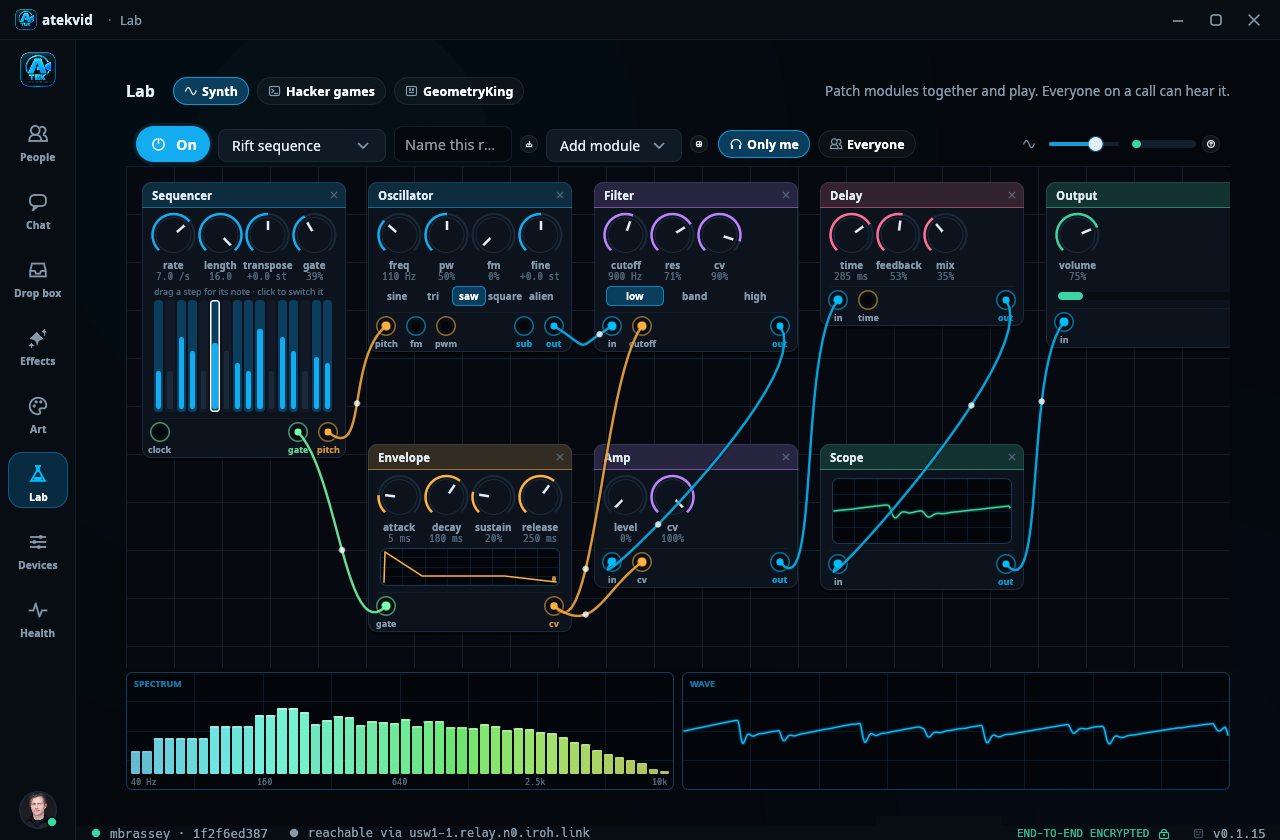
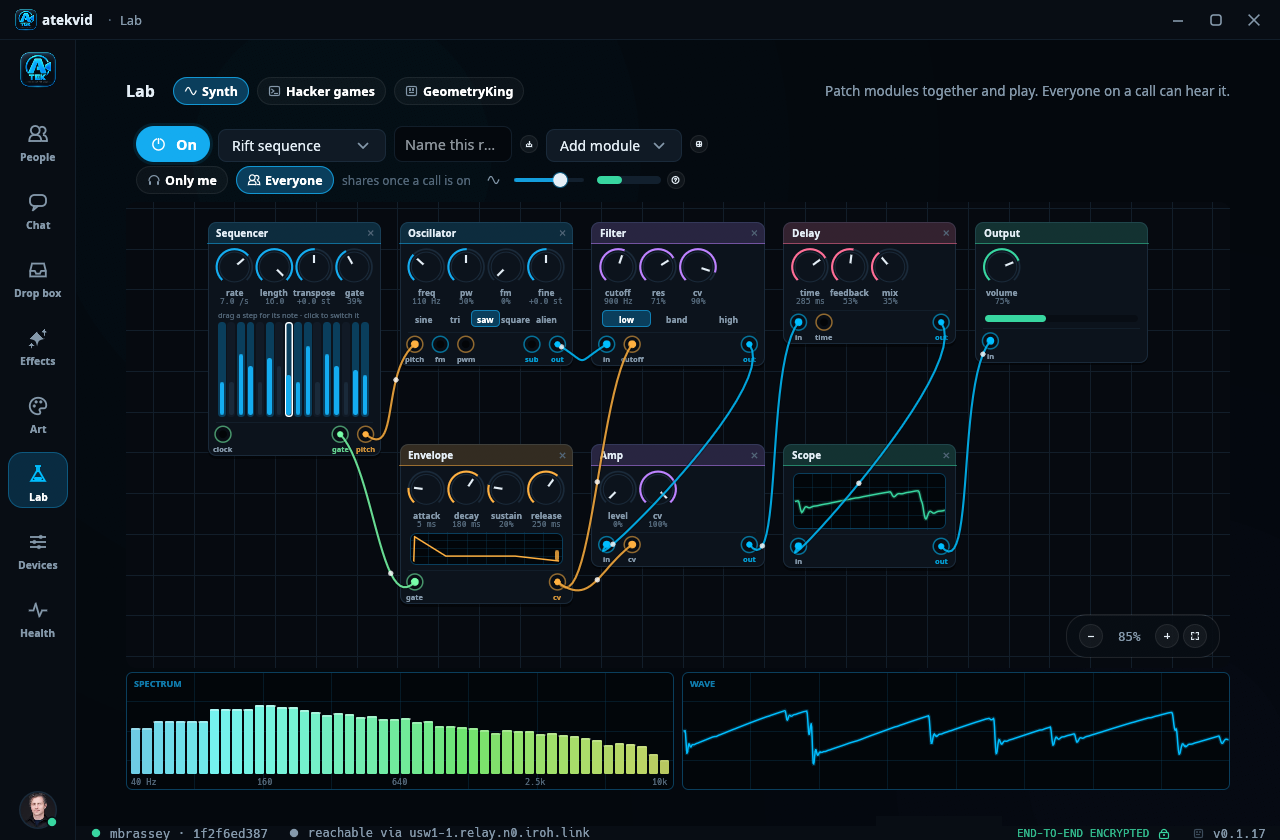
The synth rack zooms

diff --git a/README.md b/README.md
@@ -115,6 +115,8 @@ by hand.
   chorus, mixer, scope, output) patched with cables between colour-coded
   sockets, with knobs to turn, six starting racks to begin from, a spectrum
   analyser and an oscilloscope along the bottom, and racks kept by name.
+  The rack zooms in and out (Ctrl and the wheel, a pinch, or the buttons in
+  its corner) and fits every module on screen with a double-click.
   *Only me* plays it on your speakers; *Everyone* mixes it into what the call
   hears. The hacker games are a field terminal: Keycrack, Cipher and Packet
   run, each with a best score.
@@ -161,9 +163,10 @@ fullscreen · **Ctrl+Q** quit. On the art board: **B** draw · **V** select ·
 **S** shapes · **T** text · **K** stickers · **H** pan · **E** eraser ·
 **Ctrl+Z / Ctrl+Y** undo and redo · **Ctrl+D** duplicate · **Del** delete ·
 **+ − 0** zoom and fit · **Space** or the middle button drags the view ·
-**Ctrl+wheel** zooms. In the Lab, with the synth on: **A** to **;** play
-notes, **Z** and **X** change octave; in the terminal, digits, arrows,
-**Enter** and **Esc** do what they say.
+**Ctrl+wheel** zooms. In the Lab: **+ − 0 1** zoom the rack, fit it and
+show it at actual size; with the synth on, **A** to **;** play notes and
+**Z** and **X** change octave; in the terminal, digits, arrows, **Enter**
+and **Esc** do what they say.
 
 ## Screens
 
@@ -229,10 +232,12 @@ program, with a link to join them.
 
 **The Lab.** The synth rack, with a sequencer driving an oscillator through
 a filter and an amp into a delay, and the screens along the bottom reading
-the sound.
+the sound. The rack zooms out to take in a whole patch and in to read every
+value.
 
 <p align="center"><img src="docs/lab-synth.png" width="820" alt="The modular synthesiser"></p>
 <p align="center"><img src="docs/lab-synth-drone.png" width="820" alt="An alien drone patch"></p>
+<p align="center"><img src="docs/lab-zoom-in.png" width="820" alt="The rack zoomed in"></p>
 
 **The Lab on a call.** The rack takes the stage (the flask in the bar, or
 **L**), the cameras line the side, and with *Everyone* chosen the other
